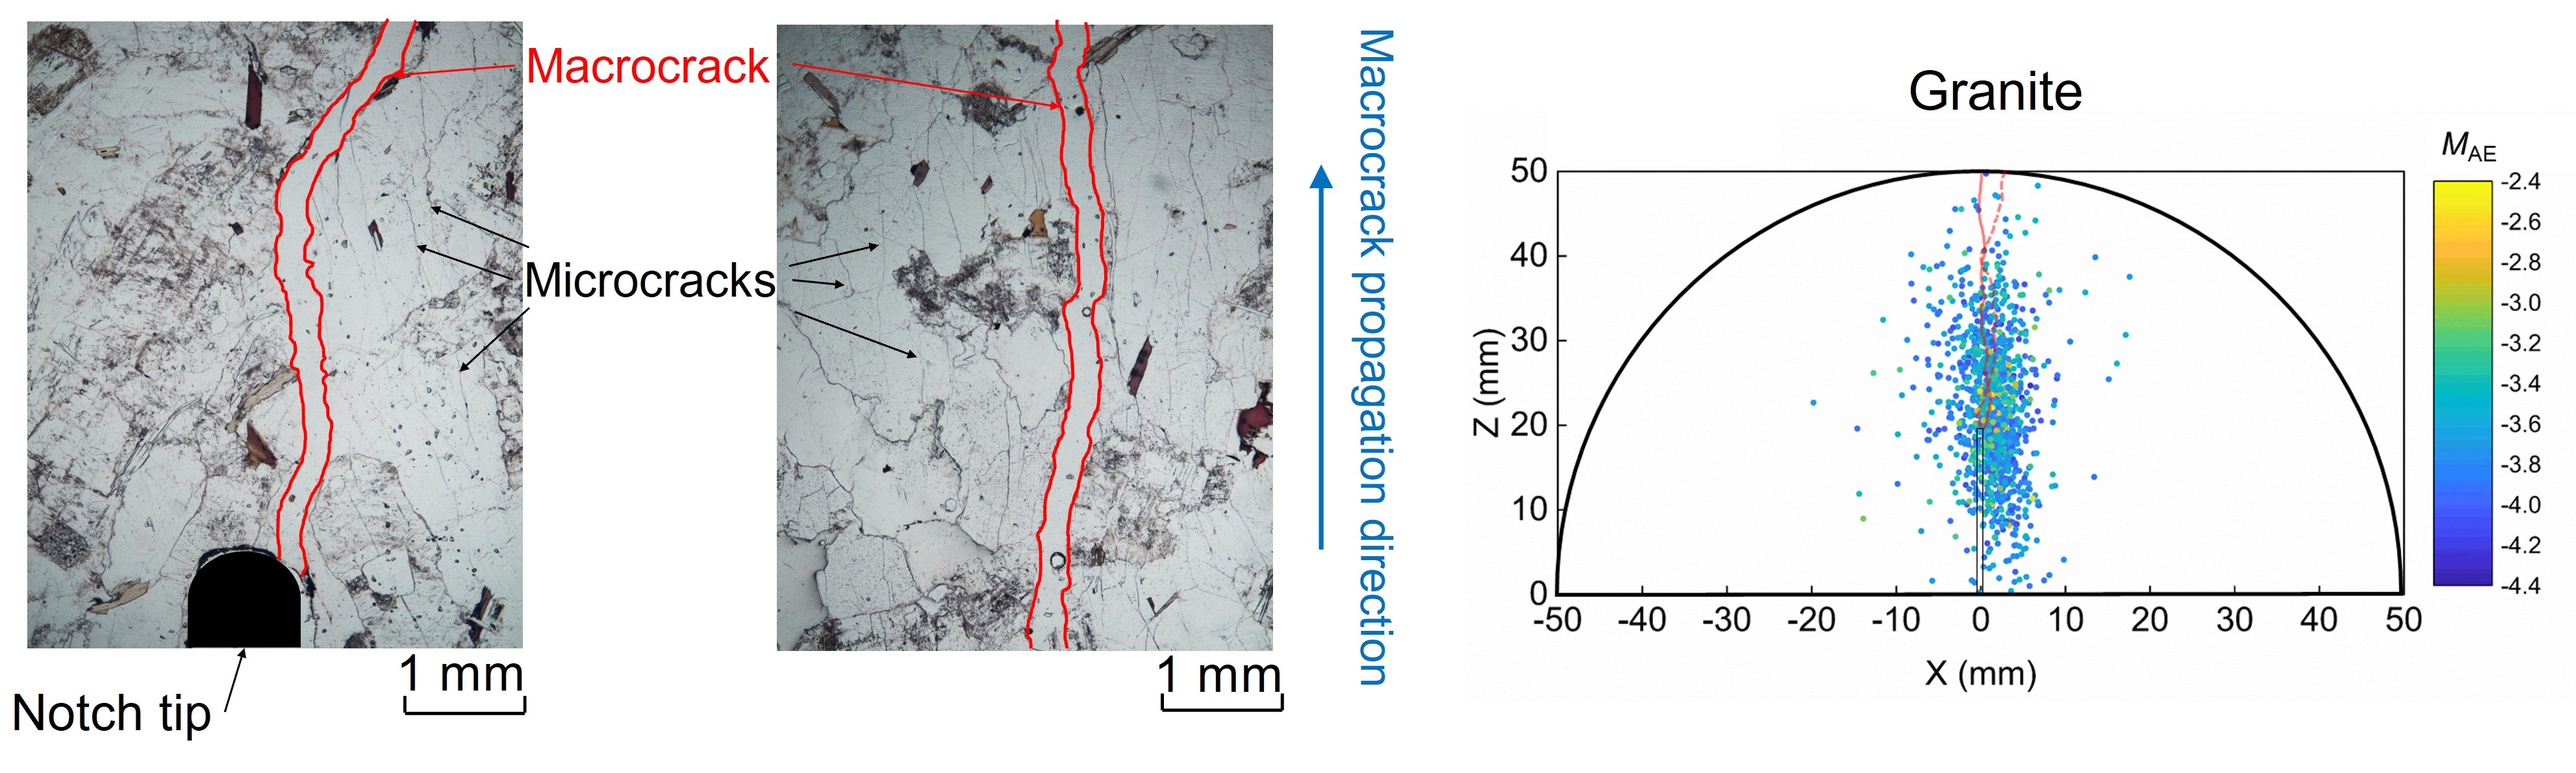
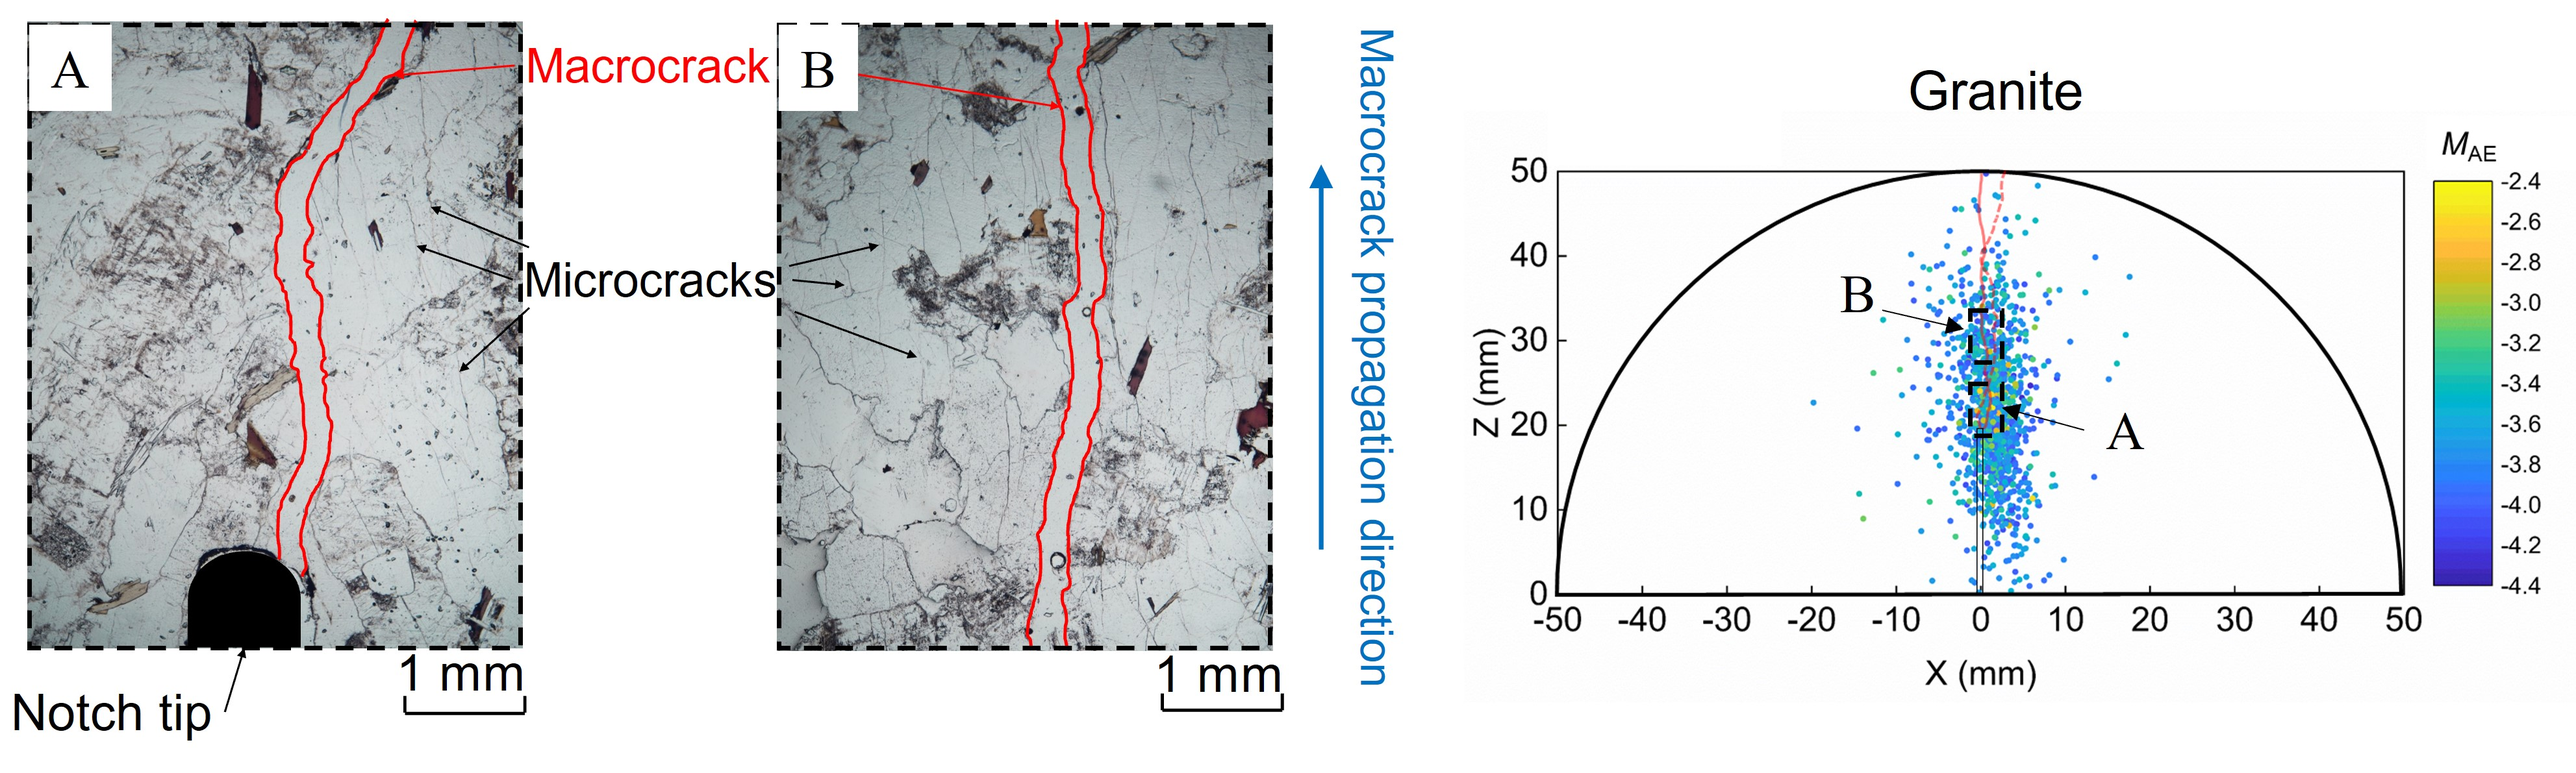
updates

diff --git a/_pages/Cracking_Microseismicity.md b/_pages/Cracking_Microseismicity.md
@@ -24,19 +24,19 @@ As a contributing author, I contributed to the development of the Cam-Clay IX mo
 </p>
 <img src="/images/Thin-section_analysis.jpg"/>  
 <h6 align="center">
-Creep induced strain localization in specimen with a weak spot.  
-</h6>
+The location of thin-section samples in SCB specimens.  
+</h5>
 <img src="/images/Granite.jpg"/>  
-<h6 align="center">
-Creep induced strain localization in specimen with heterogeneous material distribution.  
-</h6>
+<h5 align="center">
+Microscopic view beside the macrocrack (left) and the AE event scatter of FPZ preceding the initiation of macrocracks (right) in a SCB granite specimen.  
+</h5>
 <img src="/images/Marble.jpg"/>  
 <h6 align="center">
-Creep induced strain localization in specimen with a weak spot.  
+Microscopic view beside the macrocrack (left) and the AE event scatter of FPZ preceding the initiation of macrocracks (right) in a marble granite specimen.  
 </h6>
 <img src="/images/Sandstone.jpg"/>  
 <h6 align="center">
-Creep induced strain localization in specimen with heterogeneous material distribution.  
+Microscopic view beside the macrocrack (left) and the AE event scatter of FPZ preceding the initiation of macrocracks (right) in a sandstone granite specimen.    
 </h6>
 <br>
 
